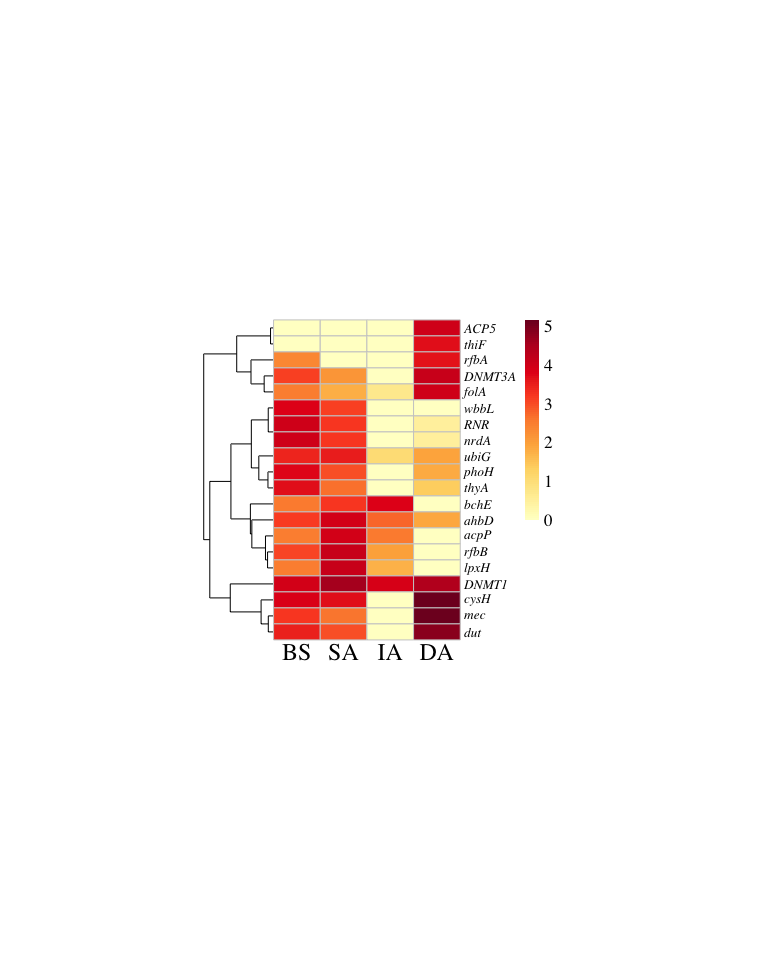
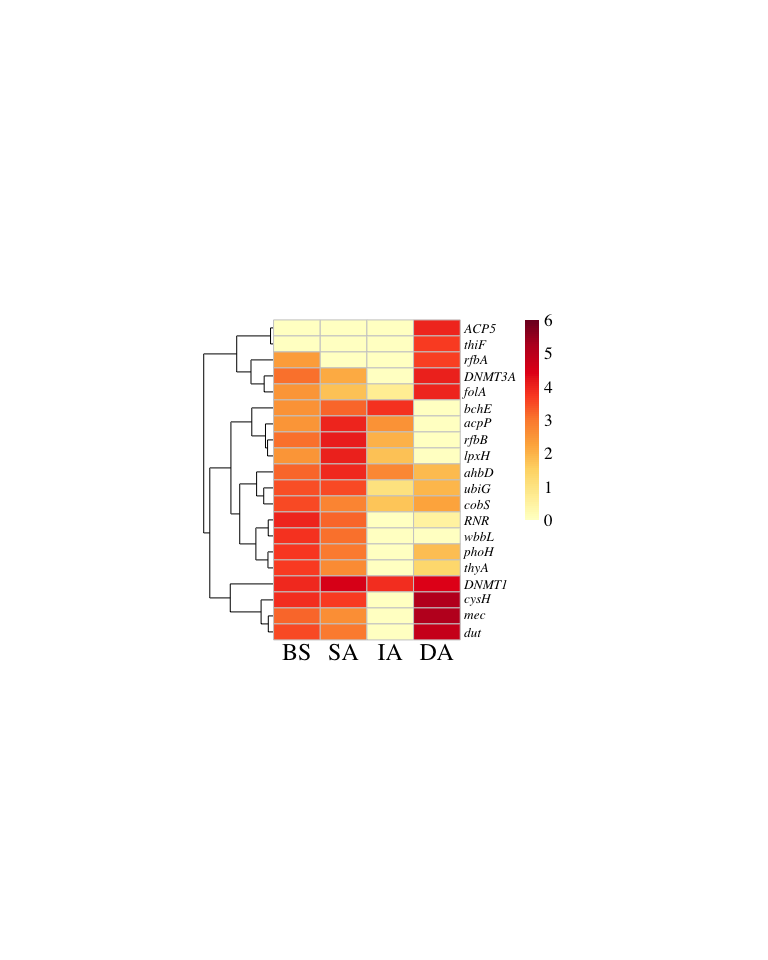
revision (#1)
* Unify AMG heatmap color scales

* Update AMG heatmap filtering and RNR deduplication

* Restrict AMG pathway heatmap to KEGG metabolism

Changed region(s): [[0.2812, 0.3125, 0.6562, 0.6875], [0.6875, 0.375, 0.7188, 0.4688], [0.6875, 0.3125, 0.7188, 0.3438]]

diff --git a/analyses/05-fig5-heatmap.md b/analyses/05-fig5-heatmap.md
@@ -18,7 +18,7 @@ Cunli Pan, Jinlong Ru
   - [<span class="toc-section-number">1.7</span> Task 7: Plot Top 20 AMG
     Heatmap](#task-7-plot-top-20-amg-heatmap)
 
-**Updated: 2026-01-29 17:22:37 CET.**
+**Updated: 2026-07-23 17:45:29 CET.**
 
 The purpose of this document is to construct and visualize a heatmap of
 viral functional potential based on KEGG orthology (KO) and pathway
@@ -42,7 +42,18 @@ suppressPackageStartupMessages({
   library(pheatmap)
 
 })
+```
 
+</details>
+
+    Warning: package 'S4Vectors' was built under R version 4.5.3
+
+    Warning: package 'Biobase' was built under R version 4.5.3
+
+<details class="code-fold">
+<summary>Code</summary>
+
+``` r
 # Load package utility functions
 devtools::load_all(here::here())
 ```
@@ -368,11 +379,15 @@ message("Deduplicated: ", nrow(full_df), " → ", nrow(deduplicated_df))
 write.xlsx(deduplicated_df, path_target("deduplicated_pathway_table.xlsx"))
 
 # Filter valid pathways
+# Restrict pathway-level visualization to categories applicable to microbial/viral genomes
+# Filter valid pathways
+# Restrict pathway-level visualization to KEGG Metabolism pathways
 filtered_df <- deduplicated_df %>%
   dplyr::filter(!is.na(Pathway_ID), !is.na(Pathway_Name), !is.na(sample_group)) %>%
   dplyr::filter(!is.na(TPM)) %>%
-  mutate(Pathway_Group = ifelse(str_starts(Pathway_Top_Category, "Metabolism"),
-                                 "Metabolism", "Other"))
+  dplyr::filter(Pathway_Top_Category == "Metabolism") %>%
+  mutate(Pathway_Group = "Metabolism")
+
 
 message("Valid pathway rows: ", nrow(filtered_df))
 
@@ -406,6 +421,15 @@ message("✅ Task 5 completed")
 ``` r
 message("=== Plot Pathway Heatmap ===")
 
+# Shared heatmap color scale
+shared_heatmap_colors <- colorRampPalette(RColorBrewer::brewer.pal(9, "YlOrRd"))(100)
+shared_heatmap_breaks <- seq(0, 6, length.out = 101)  # for pheatmap
+shared_heatmap_values <- seq(0, 6, length.out = length(shared_heatmap_colors))  # for ComplexHeatmap
+
+shared_heatmap_col_fun <- circlize::colorRamp2(
+  shared_heatmap_values,
+  shared_heatmap_colors
+)
 # Read data
 df <- read.xlsx(path_target("heatmap_matrix_with_pathway_group.xlsx"))
 samples <- c("BS", "SA", "IA", "DA")
@@ -435,11 +459,7 @@ matched <- df_heatmap %>%
   dplyr::left_join(anno_df, by = "Pathway_Short")
 
 # Metabolism=orange, Other=blue
-label_colors <- ifelse(
-  str_starts(matched$Pathway_Top_Category, "Metabolism"),
-  "#D97706",  # Orange
-  "#2563EB"   # Blue
-)
+label_colors <- "black"
 
 # Convert to matrix
 mat <- as.matrix(df_heatmap)
@@ -448,7 +468,7 @@ mat <- as.matrix(df_heatmap)
 ht <- Heatmap(
   mat,
   name = "log10(TPM + 1)",
-  col = viridis::inferno(100),
+  col = shared_heatmap_col_fun,
   cluster_rows = FALSE,
   cluster_columns = FALSE,
   width = unit(10, "cm"),
@@ -510,6 +530,25 @@ dev.off()
 <summary>Code</summary>
 
 ``` r
+# --- TEMPORARY: TIFF export for Fig. 5 assembly; delete after use ---
+tiff(path_target("Fig5a_metabolic_pathway_heatmap_300dpi.tiff"),
+     width = 3600, height = 4800, res = 300,
+     compression = "lzw", bg = "white")
+draw(ht)
+dev.off()
+```
+
+</details>
+
+    quartz_off_screen 
+                    2 
+
+<details class="code-fold">
+<summary>Code</summary>
+
+``` r
+# ---
+
 pdf(path_target("Fig5_pathway_heatmap.pdf"), width = 12, height = 16)
 draw(ht)
 dev.off()
@@ -555,12 +594,16 @@ message("✅ Task 6 completed")
 ``` r
 message("=== Plot Top 20 AMG Gene Heatmap (Total TPM) ===")
 
+# Shared heatmap color scale
+shared_heatmap_colors <- colorRampPalette(RColorBrewer::brewer.pal(9, "YlOrRd"))(100)
+shared_heatmap_breaks <- seq(0, 6, length.out = 101)
+
 # Read deduplicated pathway table
 df <- read.xlsx(path_target("deduplicated_pathway_table.xlsx"))
 
 # Clean data
 df_clean <- df %>%
-  dplyr::select(dbid, vOTU_id, sample_group, TPM, db_desc) %>%
+  dplyr::select(dbid, vOTU_id, protein_id, sample_group, TPM, db_desc) %>%
   dplyr::filter(!is.na(dbid), !is.na(sample_group), !is.na(TPM)) %>%
   dplyr::distinct()
 
@@ -569,7 +612,7 @@ message("Clean data: ", nrow(df_clean), " rows")
 # Special gene name mapping
 special_map <- tribble(
   ~dbid, ~gene_symbol,
-  "K00525", "nrdA",
+  "K00525", "RNR",
   "EC:1.17.4.1", "RNR",
   "K00973", "rfbA",
   "K01710", "rfbB",
@@ -593,7 +636,9 @@ df_labeled <- df_clean %>%
       str_trim(),
     gene_symbol = if_else(is.na(gene_symbol), auto_label, gene_symbol)
   ) %>%
-  dplyr::select(-auto_label)
+  dplyr::select(-auto_label) %>%
+  # Collapse duplicate KO/EC annotations assigned to the same protein
+  dplyr::distinct(vOTU_id, protein_id, gene_symbol, sample_group, TPM, .keep_all = TRUE)
 
 # Summarize total TPM per gene
 gene_summary <- df_labeled %>%
@@ -628,12 +673,15 @@ gene_log_matrix_total <- gene_log_matrix_total[, available_samples]
 rownames(gene_log_matrix_total) <- paste0("italic('", rownames(gene_log_matrix_total), "')")
 
 # Color scheme
-my_colors <- colorRampPalette(RColorBrewer::brewer.pal(9, "YlOrRd"))(100)
+my_colors <- shared_heatmap_colors
 
 # Plot pheatmap
 p_amg_total <- pheatmap::pheatmap(
   gene_log_matrix_total,
   color = my_colors,
+  breaks = shared_heatmap_breaks,
+  legend_breaks = 0:6,
+  legend_labels = as.character(0:6),
   cluster_rows = TRUE,
   cluster_cols = FALSE,
   show_colnames = TRUE,

diff --git a/analyses/11-figS6-amg-DA.md b/analyses/11-figS6-amg-DA.md
@@ -7,7 +7,7 @@ Cunli Pan, Jinlong Ru
     Heatmap (Ranked by
     DA)](#task-1-plot-top-20-amg-heatmap-ranked-by-da)
 
-**Updated: 2026-01-29 17:30:50 CET.**
+**Updated: 2026-07-20 13:40:37 CET.**
 
 The purpose of this document is to identify differentially abundant
 auxiliary metabolic genes (AMGs) across sampling depths, visualizing
@@ -33,6 +33,12 @@ devtools::load_all(here::here())
 </details>
 
     ℹ Loading SwDGVirome
+    Registered S3 methods overwritten by 'GenomeInfoDb':
+      method                from   
+      as.data.frame.Seqinfo Seqinfo
+      merge.Seqinfo         Seqinfo
+      summary.Seqinfo       Seqinfo
+      update.Seqinfo        Seqinfo
 
 ## Tasks
 
@@ -42,8 +48,13 @@ devtools::load_all(here::here())
 <summary>Code</summary>
 
 ``` r
+# Shared heatmap color scale
+shared_heatmap_colors <- colorRampPalette(RColorBrewer::brewer.pal(9, "YlOrRd"))(100)
+shared_heatmap_breaks <- seq(0, 6, length.out = 101)  
+
 # Read deduplicated pathway table from 05-fig5-heatmap
 dedup_path <- path_source("05-fig5-heatmap", "deduplicated_pathway_table.xlsx")
+
 
 if (!file.exists(dedup_path)) {
   stop("deduplicated_pathway_table.xlsx not found in 05-fig5-heatmap outputs")
@@ -51,9 +62,9 @@ if (!file.exists(dedup_path)) {
 
 df <- openxlsx::read.xlsx(dedup_path)
 
-# Clean data (key column names: dbid, vOTU_id, sample_group, TPM, db_desc)
+# Clean data (key column names: dbid, vOTU_id, protein_id, sample_group, TPM, db_desc)
 df_clean <- df %>%
-  dplyr::select(dbid, vOTU_id, sample_group, TPM, db_desc) %>%
+  dplyr::select(dbid, vOTU_id, protein_id, sample_group, TPM, db_desc) %>%
   dplyr::filter(!is.na(dbid), !is.na(sample_group), !is.na(TPM)) %>%
   dplyr::distinct()
 
@@ -71,7 +82,7 @@ message("Clean data: ", nrow(df_clean), " rows")
 # Special gene name mapping (same as Fig5b)
 special_map <- tibble::tribble(
   ~dbid, ~gene_symbol,
-  "K00525", "nrdA",
+  "K00525", "RNR",
   "EC:1.17.4.1", "RNR",
   "K00973", "rfbA",
   "K01710", "rfbB",
@@ -93,9 +104,14 @@ df_labeled <- df_clean %>%
       str_split(",", simplify = TRUE) %>%
       .[, 1] %>%
       str_trim(),
-    gene_symbol = if_else(is.na(gene_symbol), auto_label, gene_symbol)
+        gene_symbol = if_else(is.na(gene_symbol), auto_label, gene_symbol)
   ) %>%
-  dplyr::select(-auto_label)
+  dplyr::select(-auto_label) %>%
+  # Collapse duplicate KO/EC annotations assigned to the same protein
+  dplyr::distinct(vOTU_id, protein_id, gene_symbol, sample_group, TPM, .keep_all = TRUE)
+
+
+
 
 # Summarize TPM per gene and sample
 gene_summary <- df_labeled %>%
@@ -137,12 +153,15 @@ gene_log_matrix_da <- gene_log_matrix_da[, available_samples]
 rownames(gene_log_matrix_da) <- paste0("italic('", rownames(gene_log_matrix_da), "')")
 
 # Color scheme
-my_colors <- colorRampPalette(RColorBrewer::brewer.pal(9, "YlOrRd"))(100)
+my_colors <- shared_heatmap_colors
 
 # Plot pheatmap
 p_amg_da <- pheatmap::pheatmap(
   gene_log_matrix_da,
   color = my_colors,
+  breaks = shared_heatmap_breaks,
+  legend_breaks = 0:6,
+  legend_labels = as.character(0:6),
   cluster_rows = TRUE,
   cluster_cols = FALSE,
   show_colnames = TRUE,
